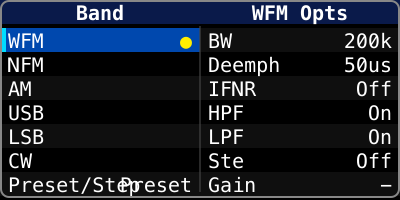
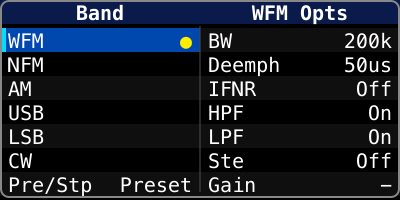
fix: shorten Combo dial's Preset/Step label to fit half-width column
User: 'RX Combo Options Preset Step 切替え方法が古いので、RX Band と同様に
... ダイヤル1秒長押しトグルを実装してほしい'.

The long-press 1 s toggle was actually already wired in commit 1ee8a98,
but the label 'Preset/Step' overflowed the Combo dial's 100 px band
column and got truncated to 'Preset/Stp' colliding with the 'Preset'
value text in the same row.

Abbreviate to 'Pre/Stp' for the Combo dial only. Band Select stays on
the full 'Preset/Step' label because its panel is the full 200 px
width. Underlying behaviour (short PUSH = edit toggle, ROTATE wraps
step list, LONG PUSH 1 s toggles preset ↔ vfo) was already in place,
just the visible label needed shortening.

Changed region(s): [[0.09, 0.87, 0.36, 0.99]]

diff --git a/src/actions/spyDialOptionsCombo.ts b/src/actions/spyDialOptionsCombo.ts
@@ -61,11 +61,12 @@ function formatTuneStep(hz: number): string {
 // Mode/Step row content: shows "Mode: Preset" while in preset mode, otherwise
 // "Step: 9k" while in VFO mode.
 function modeStepRow(tuneMode: TuneMode, stepHz: number): OptionsPanelRow {
-  // Combined Preset/Step row — short PUSH toggles edit (rotate cycles
-  // step), LONG PUSH (≥ 1 s) toggles preset ↔ vfo. Single label so the
-  // user can see both controls are bound to this row.
+  // Combined preset/step row — short PUSH toggles edit (rotate cycles
+  // step), LONG PUSH (≥ 1 s) toggles preset ↔ vfo. Label abbreviated
+  // to 'Pre/Stp' because the Combo dial's band column is only
+  // 100 px wide and 'Preset/Step' overflowed into the value column.
   const v = tuneMode === 'preset' ? 'Preset' : formatTuneStep(stepHz);
-  return { label: 'Preset/Step', value: v };
+  return { label: 'Pre/Stp', value: v };
 }
 
 function buildAmOptsRows(o: AMOptions, gain: number, maxGain: number): OptionsPanelRow[] {
